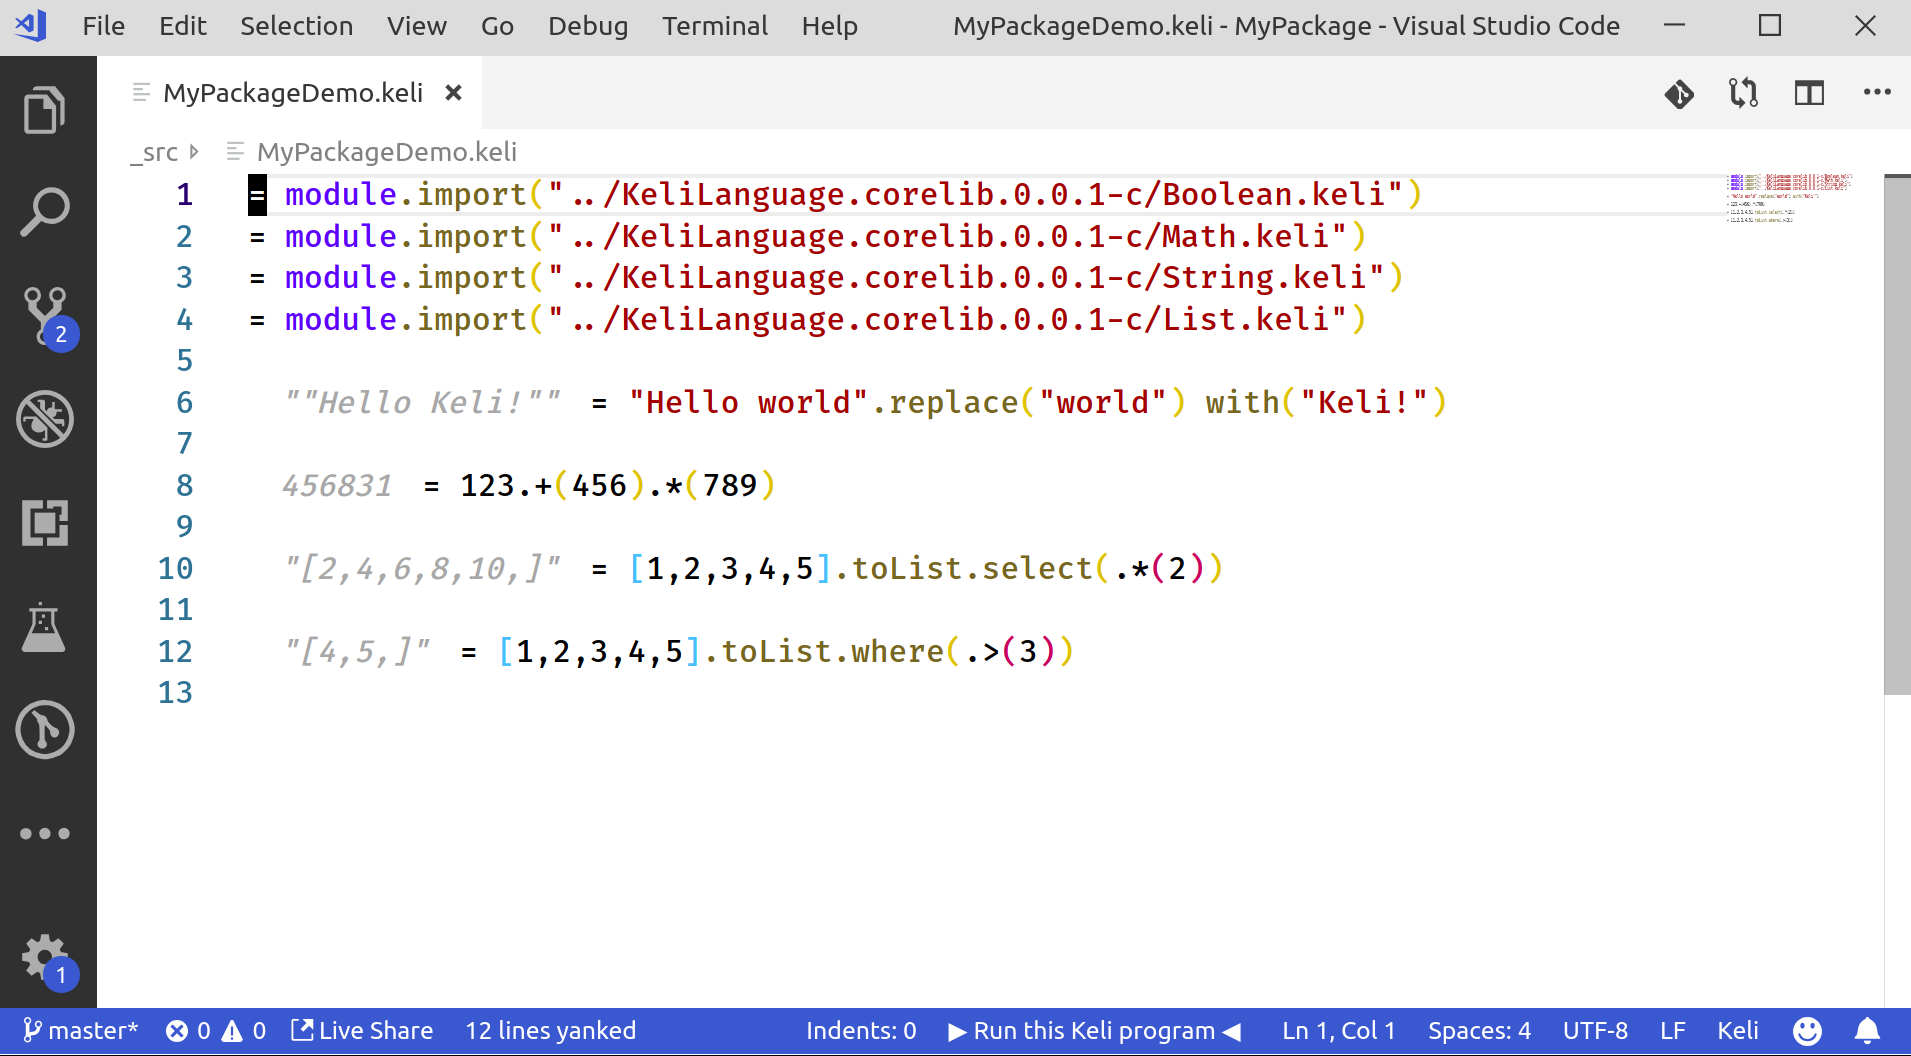
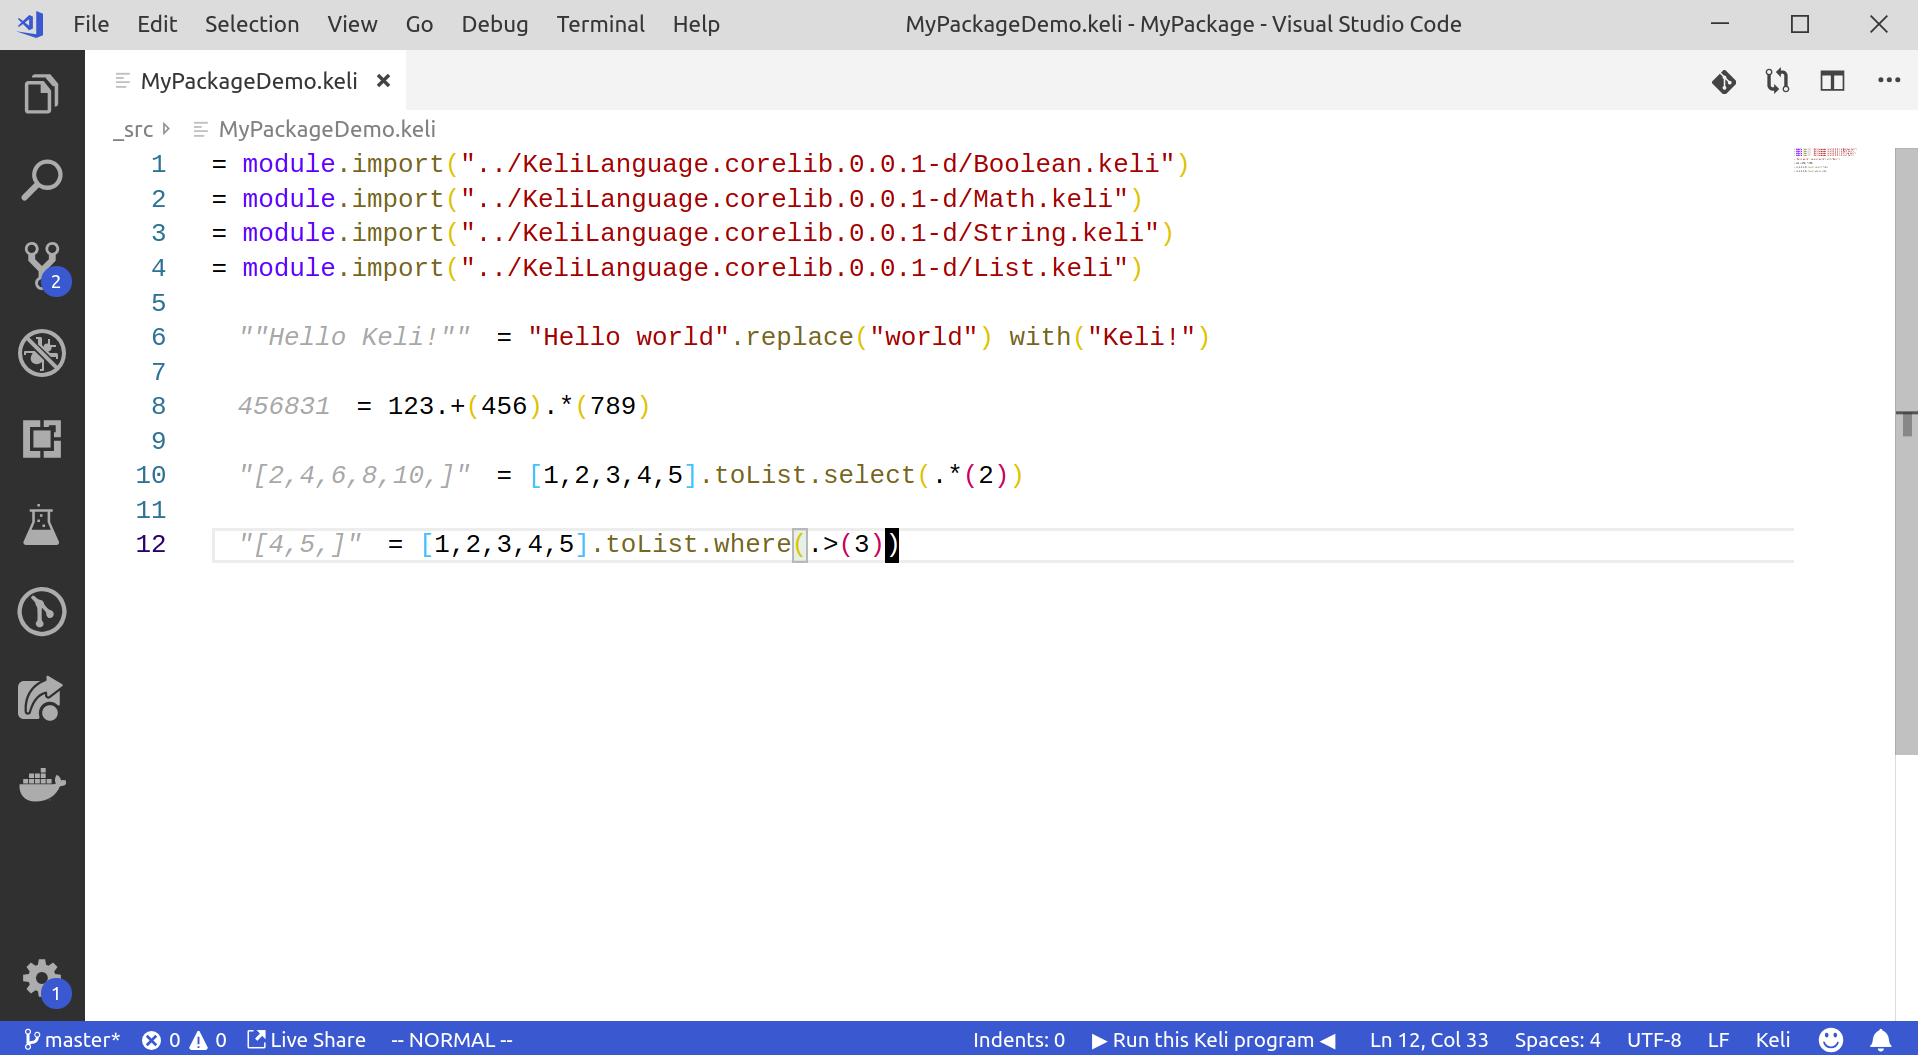
GitBook: [master] one page and 5 assets modified

diff --git a/tutorial/creating-a-new-package.md b/tutorial/creating-a-new-package.md
@@ -53,10 +53,10 @@ You might have notice that there is nothing inside the `_src` folder. To try thi
 Then, paste in the following contents into `MyPackageDemo.keli` :
 
 ```c
-= module.import("../KeliLanguage.corelib.0.0.1-c/Boolean.keli")
-= module.import("../KeliLanguage.corelib.0.0.1-c/Math.keli")
-= module.import("../KeliLanguage.corelib.0.0.1-c/String.keli")
-= module.import("../KeliLanguage.corelib.0.0.1-c/List.keli")
+= module.import("../KeliLanguage.corelib.0.0.1-d/Boolean.keli")
+= module.import("../KeliLanguage.corelib.0.0.1-d/Math.keli")
+= module.import("../KeliLanguage.corelib.0.0.1-d/String.keli")
+= module.import("../KeliLanguage.corelib.0.0.1-d/List.keli")
 
 = "Hello world".replace("world") with("Keli!")
 
@@ -71,7 +71,7 @@ Now, open `MyPackageDemo.keli` in VSCode, then click on the `Run this Keli Progr
 
 After that, you should see the following:
 
-![Output of each expression is shown after pressing \[Run this Keli program\]](../.gitbook/assets/image%20%281%29.png)
+![Output of each expression is shown after pressing \[Run this Keli program\]](../.gitbook/assets/image%20%284%29.png)
 
 That's all. Thank you for reading. Enjoy!
 
